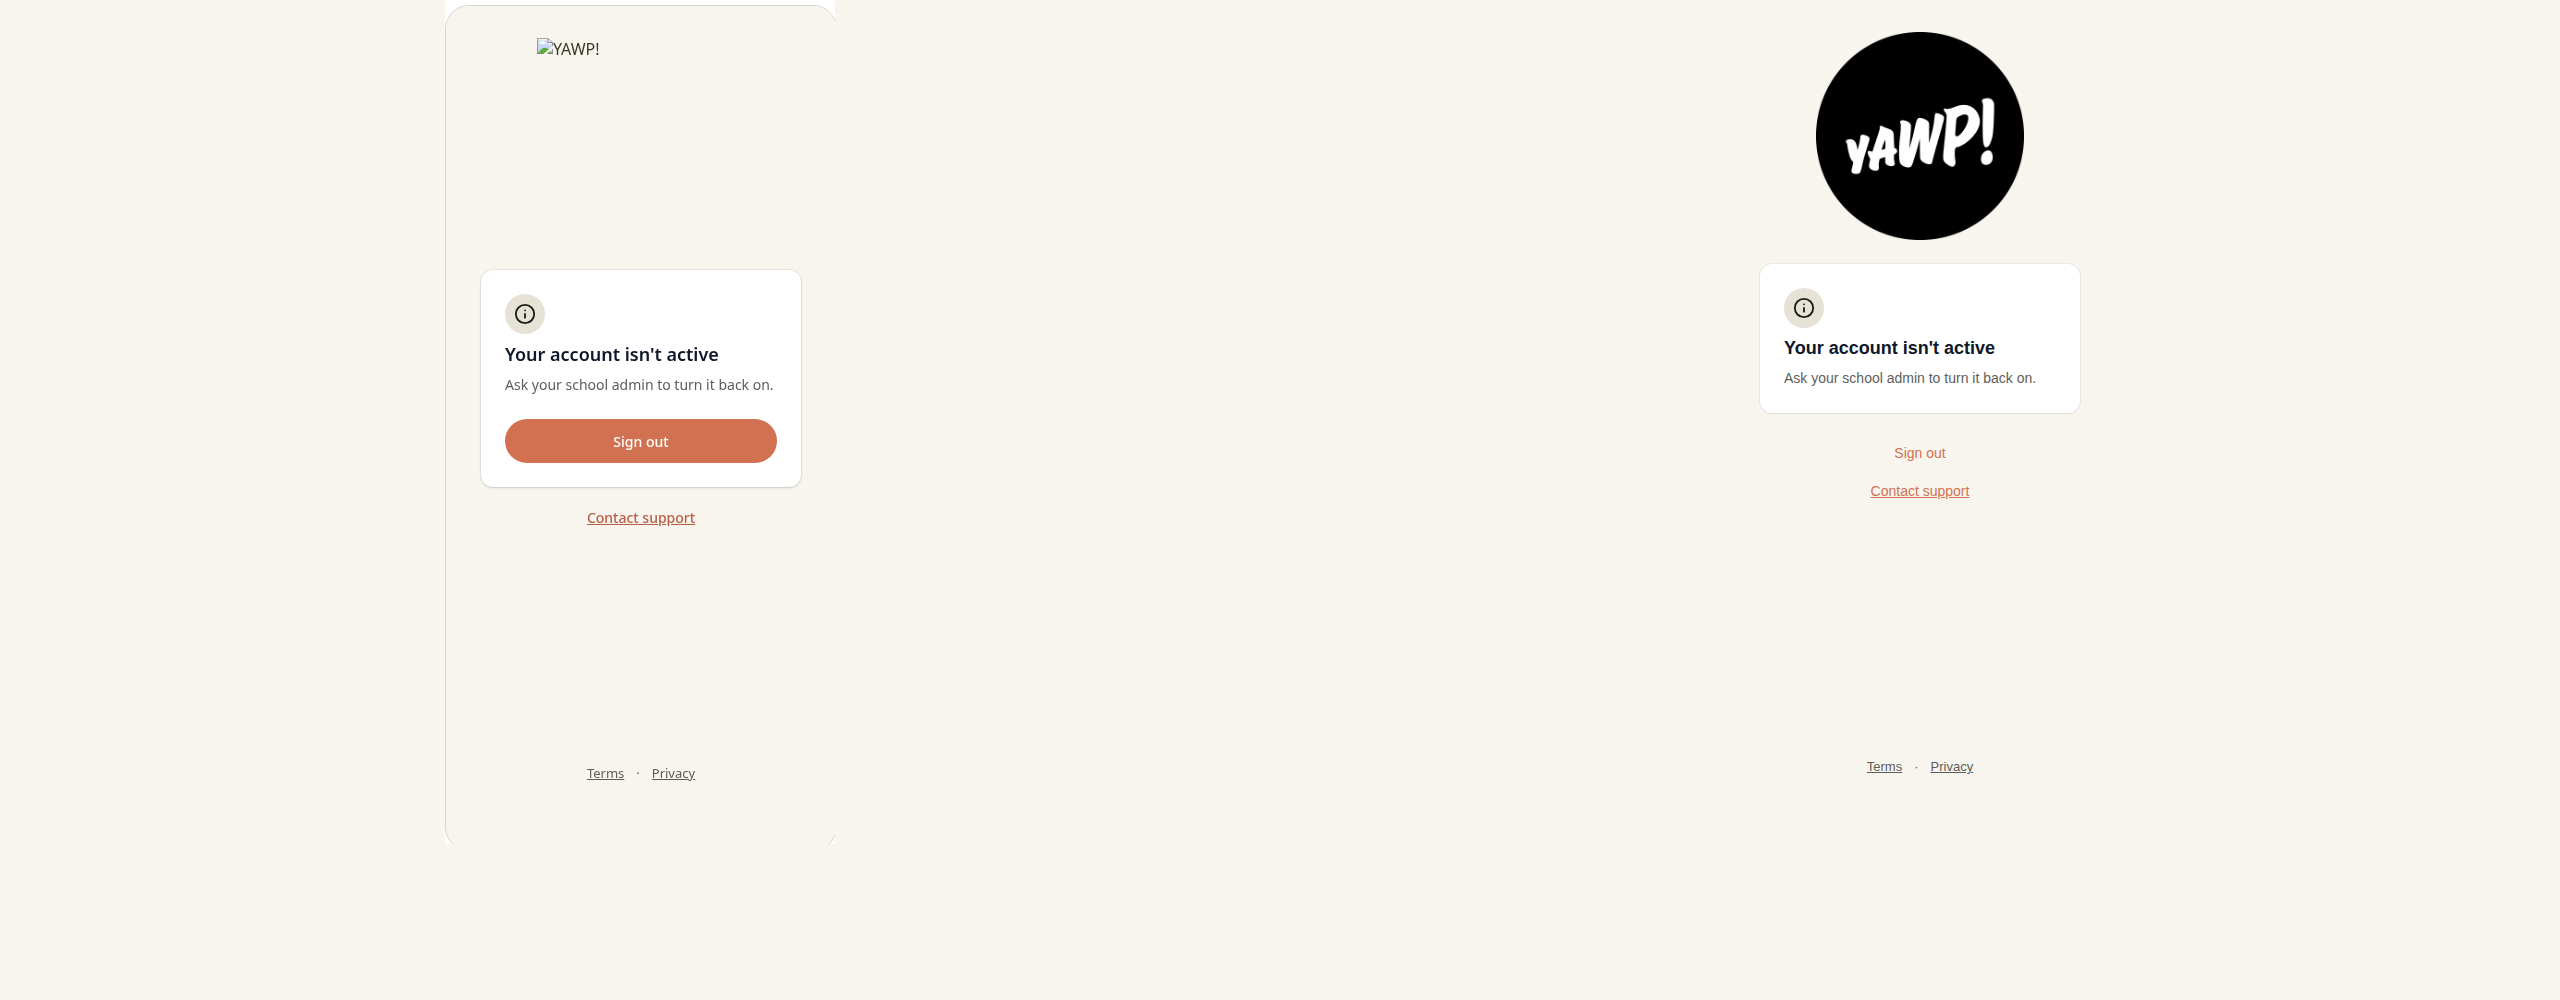
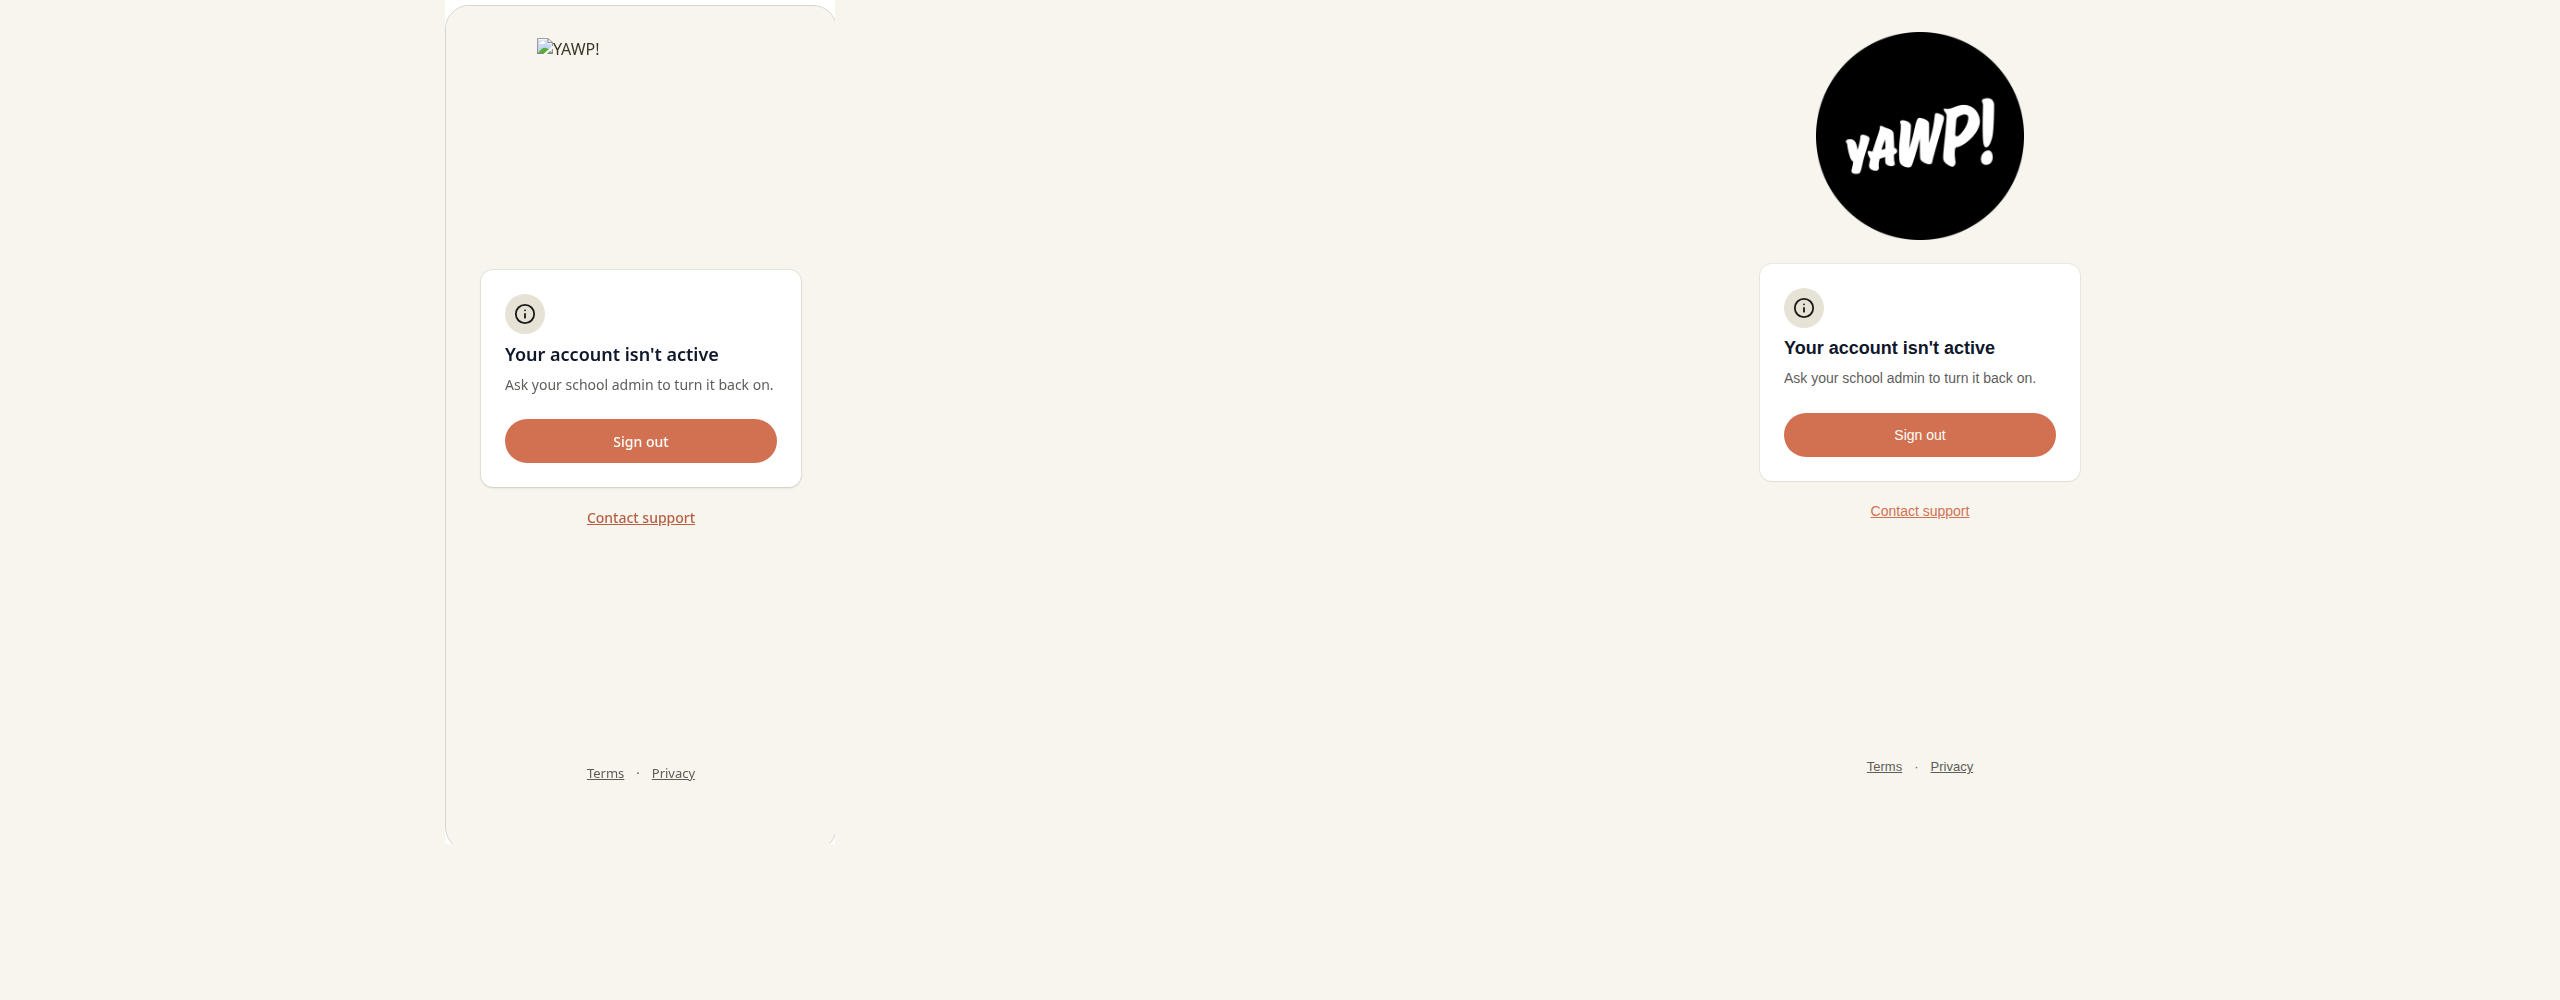
fix: match inactive staff status action placement

Changed region(s): [[0.6875, 0.403, 0.8125, 0.527]]

diff --git a/services/web-app/app/components/unified-signon/unified-signon.tsx b/services/web-app/app/components/unified-signon/unified-signon.tsx
@@ -693,7 +693,13 @@ export function UnifiedSignon({
           ? 'Ask your school admin to turn it back on.'
           : 'You are not in any active classes.';
       body =
-        variant === 'staff' ? null : (
+        variant === 'staff' ? (
+          <form method="post" action="/auth/logout">
+            <Button type="submit" className="signon-primary">
+              Sign out
+            </Button>
+          </form>
+        ) : (
           <Button
             type="button"
             className="signon-primary"
@@ -702,18 +708,16 @@ export function UnifiedSignon({
             Enter a class code
           </Button>
         );
-      below = (
-        <>
+      below =
+        variant === 'staff' ? (
+          <a href="mailto:support@yawp.school">Contact support</a>
+        ) : (
           <form method="post" action="/auth/logout">
             <Button type="submit" variant="link">
               Sign out
             </Button>
           </form>
-          {variant === 'staff' && (
-            <a href="mailto:support@yawp.school">Contact support</a>
-          )}
-        </>
-      );
+        );
       break;
     case 'membership':
       title = 'Where are you working today?';
@@ -968,6 +972,9 @@ export function UnifiedSignon({
                 ? Info
                 : Clock
             : undefined;
+  const hasNativeForm =
+    (!!passwordForm && ['password', 'required-password'].includes(screen)) ||
+    (screen === 'inactive' && variant === 'staff');
 
   return (
     <section
@@ -1019,8 +1026,7 @@ export function UnifiedSignon({
                 {state.notice}
               </div>
             )}
-            {passwordForm &&
-            ['password', 'required-password'].includes(screen) ? (
+            {hasNativeForm ? (
               body
             ) : body ? (
               <form noValidate onSubmit={submit} className="signon-fields">

diff --git a/services/web-app/e2e/tests/auth.unified-signon.spec.ts b/services/web-app/e2e/tests/auth.unified-signon.spec.ts
@@ -261,6 +261,14 @@ for (const width of [1280, 390]) {
       await expect(icon).toHaveAttribute('width', '22');
       await expect(icon).toHaveAttribute('height', '22');
       const variant = fixture.state.variant;
+      if (fixture.state.screen === 'inactive' && variant === 'staff') {
+        const logout = page.locator('.signon-card form');
+        await expect(logout).toHaveAttribute('action', '/auth/logout');
+        await expect(logout).toHaveAttribute('method', 'post');
+        await expect(
+          logout.getByRole('button', { name: 'Sign out' })
+        ).toHaveClass(/signon-primary/);
+      }
       const expectedIcon =
         fixture.state.screen === 'joined'
           ? 'circle-check'

diff --git a/docs/design/unified-signon.md b/docs/design/unified-signon.md
@@ -189,3 +189,10 @@ comparisons remain the earlier evidence; these were not rerun for this scoped
 presentation correction. Hosted QA remains omitted under the preview ban.
 PR 3 contracts and all remote feature settings remain unchanged. Repeat Ship
 Review and check final CI before the driver handles rebase, merge lock and merge.
+
+The inactive staff comparison also exposed an existing sign-out placement mismatch.
+Its unchanged `POST /auth/logout` form now sits inside the card as the primary
+action, with support below, matching signon-26. Student sign-out remains below.
+Regression assertions verify the native form method/action and primary styling;
+all 14 browser tests pass again after this adjustment, with the four signon-26
+viewport captures refreshed (`inactive-staff-playwright-final.log`).
